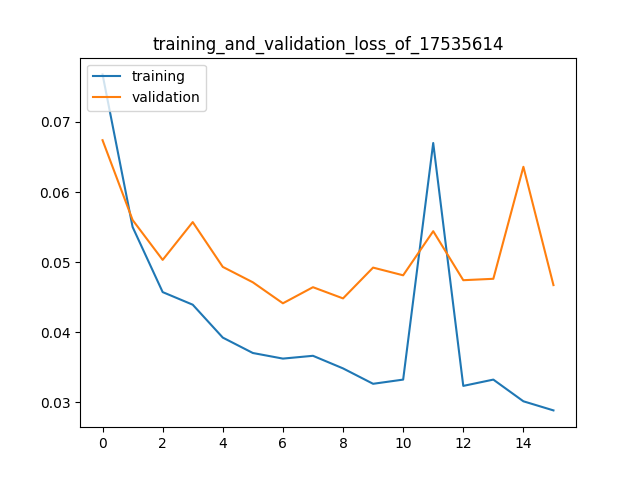
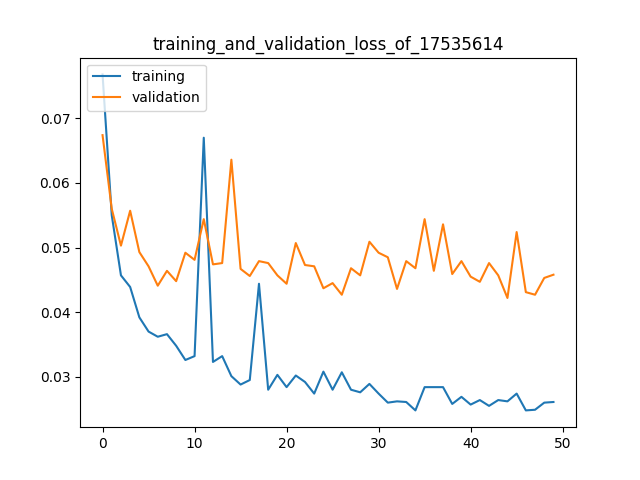
changing config

diff --git a/src/playground.py b/src/playground.py
@@ -64,6 +64,19 @@ def rename_checkpoint_files(checkpoint_files_folder):
         os.rename(checkpoint_file, checkpoint_file.parent / new_checkpoint_file_name)
 
 
+def count_number_of_pixels_images():
+    spatial_files = sorted(Path(
+        f"/sci/labs/efratmorin/ranga/FloodMLRan/data/CAMELS_US/CAMELS_all_data/").rglob("precip24_spatial_*.nc"))
+    max_num_non_zero_pixels = -1
+    for station_data_file_spatial in spatial_files:
+        ds_ncf = nc.Dataset(station_data_file_spatial, 'r')
+        X_data_spatial = np.asarray(ds_ncf["precipitation"])
+        non_zero_pixels = np.count_nonzero(X_data_spatial.sum(axis=0))
+        if non_zero_pixels > max_num_non_zero_pixels:
+            max_num_non_zero_pixels = non_zero_pixels
+    print(max_num_non_zero_pixels)
+
+
 def fix_wrong_aligned_images_files_CAMELS(basin_id=-1):
     if basin_id != -1:
         spatial_files = [Path(
@@ -170,7 +183,7 @@ def check_stationary():
 
 
 def main():
-    fix_wrong_aligned_images_files_CAMELS()
+    plot_training_and_validation_losses(Path("../slurm_output_files/slurm-17535614.out"))
 
 
 if __name__ == "__main__":
